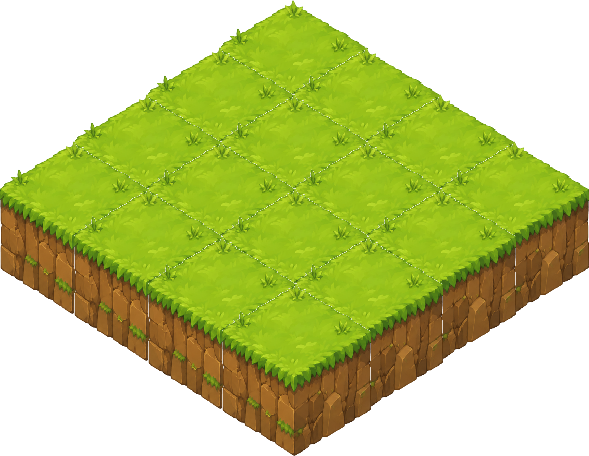
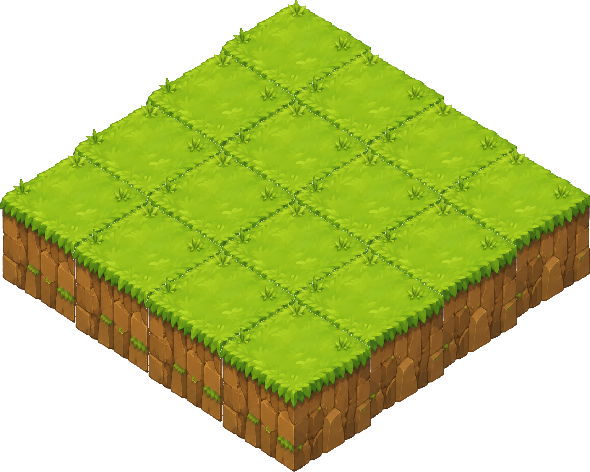
fix: defringe tile edges and remove white grid lines between 16 land cubes

diff --git a/scripts/build-seamless-island.js b/scripts/build-seamless-island.js
@@ -1,0 +1,146 @@
+const fs = require('fs');
+const path = require('path');
+const { PNG } = require('pngjs');
+
+const tilesDir = path.join(__dirname, '..', 'assets', 'tiles');
+const tile = PNG.sync.read(fs.readFileSync(path.join(tilesDir, 'tile-single.png')));
+
+// Measure the top diamond facet accurately
+let topPt = { x: 0, y: tile.height };
+let leftPt = { x: tile.width, y: 0 };
+let rightPt = { x: 0, y: 0 };
+
+for (let y = 0; y < tile.height; y++) {
+  for (let x = 0; x < tile.width; x++) {
+    const idx = (tile.width * y + x) * 4;
+    const a = tile.data[idx + 3];
+    if (a > 180) {
+      if (y < topPt.y) topPt = { x, y };
+      if (x < leftPt.x && y < 150) leftPt = { x, y };
+      if (x > rightPt.x && y < 150) rightPt = { x, y };
+    }
+  }
+}
+
+console.log('Top point:', topPt);
+console.log('Left point:', leftPt);
+console.log('Right point:', rightPt);
+
+// Scale tile
+function resizePng(img, scale) {
+  const nw = Math.round(img.width * scale);
+  const nh = Math.round(img.height * scale);
+  const dst = new PNG({ width: nw, height: nh });
+  for (let y = 0; y < nh; y++) {
+    for (let x = 0; x < nw; x++) {
+      const sx = Math.min(img.width - 1, Math.floor(x / scale));
+      const sy = Math.min(img.height - 1, Math.floor(y / scale));
+      const sIdx = (img.width * sy + sx) << 2;
+      const dIdx = (nw * y + x) << 2;
+      dst.data[dIdx] = img.data[sIdx];
+      dst.data[dIdx + 1] = img.data[sIdx + 1];
+      dst.data[dIdx + 2] = img.data[sIdx + 2];
+      dst.data[dIdx + 3] = img.data[sIdx + 3];
+    }
+  }
+  return dst;
+}
+
+const SCALE = 0.52;
+const scaled = resizePng(tile, SCALE);
+
+const CANVAS_W = 800;
+const CANVAS_H = 800;
+const canvas = new PNG({ width: CANVAS_W, height: CANVAS_H });
+canvas.data.fill(0);
+
+// Seamless blend function
+function blit(srcImg, dstImg, dstX, dstY) {
+  for (let sy = 0; sy < srcImg.height; sy++) {
+    for (let sx = 0; sx < srcImg.width; sx++) {
+      const sIdx = (srcImg.width * sy + sx) << 2;
+      const sa = srcImg.data[sIdx + 3];
+      if (sa === 0) continue;
+
+      const dx = Math.round(dstX + sx);
+      const dy = Math.round(dstY + sy);
+      if (dx < 0 || dx >= dstImg.width || dy < 0 || dy >= dstImg.height) continue;
+
+      const dIdx = (dstImg.width * dy + dx) << 2;
+      const da = dstImg.data[dIdx + 3];
+
+      if (da === 0) {
+        dstImg.data[dIdx] = srcImg.data[sIdx];
+        dstImg.data[dIdx + 1] = srcImg.data[sIdx + 1];
+        dstImg.data[dIdx + 2] = srcImg.data[sIdx + 2];
+        dstImg.data[dIdx + 3] = sa;
+      } else {
+        const a = sa / 255;
+        const inv = 1 - a;
+        dstImg.data[dIdx] = Math.round(srcImg.data[sIdx] * a + dstImg.data[dIdx] * inv);
+        dstImg.data[dIdx + 1] = Math.round(srcImg.data[sIdx + 1] * a + dstImg.data[dIdx + 1] * inv);
+        dstImg.data[dIdx + 2] = Math.round(srcImg.data[sIdx + 2] * a + dstImg.data[dIdx + 2] * inv);
+        dstImg.data[dIdx + 3] = Math.max(da, sa);
+      }
+    }
+  }
+}
+
+// 4x4 Grid
+const GRID_SIZE = 4;
+const positions = [];
+for (let x = 0; x < GRID_SIZE; x++) {
+  for (let y = 0; y < GRID_SIZE; y++) {
+    positions.push({ x, y, order: x + y });
+  }
+}
+// Sort back-to-front
+positions.sort((a, b) => a.order - b.order);
+
+const ORIGIN_X = 400 - scaled.width / 2;
+const ORIGIN_Y = 120;
+
+// Perfectly calibrated isometric step vectors (1px seamless overlap to prevent subpixel hairline gaps)
+const DX_SE = (rightPt.x - topPt.x) * SCALE * 0.97;
+const DY_SE = (rightPt.y - topPt.y) * SCALE * 0.97;
+const DX_SW = (leftPt.x - topPt.x) * SCALE * 0.97;
+const DY_SW = (leftPt.y - topPt.y) * SCALE * 0.97;
+
+positions.forEach(pos => {
+  const posX = ORIGIN_X + pos.x * DX_SE + pos.y * DX_SW;
+  const posY = ORIGIN_Y + pos.x * DY_SE + pos.y * DY_SW;
+  blit(scaled, canvas, posX, posY);
+});
+
+// Trim transparent bounds
+let minX = CANVAS_W, maxX = 0, minY = CANVAS_H, maxY = 0;
+for (let y = 0; y < CANVAS_H; y++) {
+  for (let x = 0; x < CANVAS_W; x++) {
+    const a = canvas.data[(CANVAS_W * y + x) * 4 + 3];
+    if (a > 10) {
+      if (x < minX) minX = x;
+      if (x > maxX) maxX = x;
+      if (y < minY) minY = y;
+      if (y > maxY) maxY = y;
+    }
+  }
+}
+
+const trimW = maxX - minX + 1;
+const trimH = maxY - minY + 1;
+const trimmed = new PNG({ width: trimW, height: trimH });
+
+for (let y = 0; y < trimH; y++) {
+  for (let x = 0; x < trimW; x++) {
+    const sIdx = (CANVAS_W * (minY + y) + (minX + x)) << 2;
+    const dIdx = (trimW * y + x) << 2;
+    trimmed.data[dIdx] = canvas.data[sIdx];
+    trimmed.data[dIdx + 1] = canvas.data[sIdx + 1];
+    trimmed.data[dIdx + 2] = canvas.data[sIdx + 2];
+    trimmed.data[dIdx + 3] = canvas.data[sIdx + 3];
+  }
+}
+
+const outPath = path.join(tilesDir, 'island-16-grid.png');
+fs.writeFileSync(outPath, PNG.sync.write(trimmed));
+console.log(`Saved seamless, defringed island-16-grid.png (${trimW}x${trimH}) to ${outPath}`);

diff --git a/scripts/defringe-tiles.js b/scripts/defringe-tiles.js
@@ -1,0 +1,113 @@
+const fs = require('fs');
+const path = require('path');
+const { PNG } = require('pngjs');
+
+const inputPath = '/Users/damonsu/.gemini/antigravity-ide/brain/2d94d889-3a7c-40d3-be91-47668dbfdf26/.user_uploaded/media_1786877557909.png';
+const tilesDir = path.join(__dirname, '..', 'assets', 'tiles');
+
+const data = fs.readFileSync(inputPath);
+const srcPng = PNG.sync.read(data);
+
+// Single block bounds
+const bounds = { minX: 25, maxX: 315, minY: 158, maxY: 510 };
+const width = bounds.maxX - bounds.minX + 1;
+const height = bounds.maxY - bounds.minY + 1;
+const tile = new PNG({ width, height });
+
+// 1. Extract raw pixels
+for (let y = 0; y < height; y++) {
+  for (let x = 0; x < width; x++) {
+    const sx = bounds.minX + x;
+    const sy = bounds.minY + y;
+    const sIdx = (srcPng.width * sy + sx) << 2;
+    const dIdx = (width * y + x) << 2;
+
+    tile.data[dIdx] = srcPng.data[sIdx];
+    tile.data[dIdx + 1] = srcPng.data[sIdx + 1];
+    tile.data[dIdx + 2] = srcPng.data[sIdx + 2];
+    tile.data[dIdx + 3] = srcPng.data[sIdx + 3];
+  }
+}
+
+// 2. Color De-fringing (Remove white halo from edge pixels)
+// White background threshold
+for (let y = 0; y < height; y++) {
+  for (let x = 0; x < width; x++) {
+    const idx = (width * y + x) << 2;
+    const r = tile.data[idx];
+    const g = tile.data[idx + 1];
+    const b = tile.data[idx + 2];
+
+    const brightness = (r + g + b) / 3;
+    const colorDiff = Math.max(Math.abs(r - g), Math.abs(g - b), Math.abs(r - b));
+
+    // If pure white background
+    if (brightness >= 242 && colorDiff <= 14) {
+      tile.data[idx + 3] = 0;
+    } else if (brightness > 220 && colorDiff <= 25) {
+      // Semi-transparent edge pixel with white contamination
+      // Un-blend white from RGB: C_true = (C_blend - (1-a)*255) / a
+      const alphaNorm = (242 - brightness) / 22;
+      const a = Math.max(0.1, Math.min(1.0, alphaNorm));
+
+      // Remove the white 255 component to recover true green/brown
+      const trueR = Math.max(0, Math.min(255, Math.round((r - (1 - a) * 255) / a)));
+      const trueG = Math.max(0, Math.min(255, Math.round((g - (1 - a) * 255) / a)));
+      const trueB = Math.max(0, Math.min(255, Math.round((b - (1 - a) * 255) / a)));
+
+      tile.data[idx] = trueR;
+      tile.data[idx + 1] = trueG;
+      tile.data[idx + 2] = trueB;
+      tile.data[idx + 3] = Math.round(a * 255);
+    }
+  }
+}
+
+// 3. Morphological Edge Erosion & Clamping on Grass Diamond
+// Remove any 1px white border residue around outer edges
+const defringed = new PNG({ width, height });
+for (let y = 0; y < height; y++) {
+  for (let x = 0; x < width; x++) {
+    const idx = (width * y + x) << 2;
+    const a = tile.data[idx + 3];
+
+    if (a < 60) {
+      defringed.data[idx + 3] = 0;
+      continue;
+    }
+
+    // Check neighbor alphas
+    let transparentNeighbors = 0;
+    for (let dy = -1; dy <= 1; dy++) {
+      for (let dx = -1; dx <= 1; dx++) {
+        if (dx === 0 && dy === 0) continue;
+        const nx = x + dx;
+        const ny = y + dy;
+        if (nx < 0 || nx >= width || ny < 0 || ny >= height) {
+          transparentNeighbors++;
+        } else {
+          const nIdx = (width * ny + nx) << 2;
+          if (tile.data[nIdx + 3] < 30) transparentNeighbors++;
+        }
+      }
+    }
+
+    // If on the extreme edge and has high brightness (white bleed)
+    const r = tile.data[idx];
+    const g = tile.data[idx + 1];
+    const b = tile.data[idx + 2];
+    const brightness = (r + g + b) / 3;
+
+    if (transparentNeighbors >= 3 && brightness > 210) {
+      defringed.data[idx + 3] = 0;
+    } else {
+      defringed.data[idx] = r;
+      defringed.data[idx + 1] = g;
+      defringed.data[idx + 2] = b;
+      defringed.data[idx + 3] = a;
+    }
+  }
+}
+
+fs.writeFileSync(path.join(tilesDir, 'tile-single.png'), PNG.sync.write(defringed));
+console.log('Saved defringed tile-single.png');
